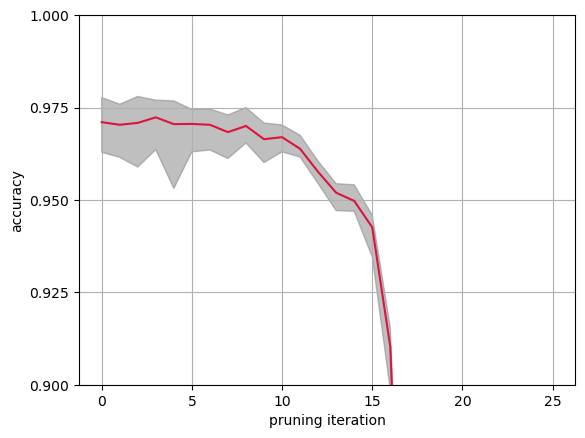
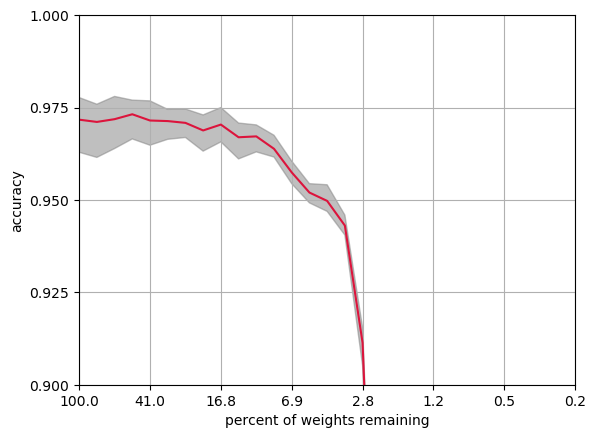
Upd: Final correction of result visualization (hopefully...)

diff --git a/PyCharm/main.py b/PyCharm/main.py
@@ -127,18 +127,24 @@ def main():
 
     if visualize:
         # Values to be set manually
-        no_masking_iteration_provided = 25
+        no_masking_iteration_provided = 10
         # no_masking_iteration_provided = no_pruning_iterations
         measure_key = 'accuracy'
         # The convergence of the full network happens until:
         # epoch 10 (Reproduction-MNIST-Lenet-FCN)
         # epoch 5 (Reproduction-CIFAR10-CNN-6)
         # epoch 3 (Transfer-20Newsgroups-End2EndCNN)
-        no_epochs_to_estimated_convergence = 10
+        no_epochs_to_estimated_convergence = 3
+        # The effective amount of weights remaining per iteration
+        # 0.8 (Reproduction-MNIST-Lenet-FCN)
+        # 0.8253 (Reproduction-MNIST-Lenet-FCN)
+        # 0.80005 (Transfer-20Newsgroups-End2EndCNN)
+        compound_remaining_size = 0.80005
         # Limits of the axis for the experiment:
         # y_limits = (0.6, 0.85)
+        # y_limits = (0.6, 0.8)
         y_limits = (0.9, 1.0)
-        # x_limits = (0, 18)
+        x_limits = (0, no_masking_iteration_provided)
 
         # no_experiments_provided = 3
         average_over_multiple_experiments = False
@@ -236,24 +242,24 @@ def main():
 
                 vis_results = []
                 vis_names = []
-                vis_results.append(pruning_results[6])
-                vis_names.append(pruning_names[6])
-                vis_results.append(pruning_results[7])
-                vis_names.append(pruning_names[7])
-                vis_results.append(pruning_results[8])
-                vis_names.append(pruning_names[8])
-                vis_results.append(pruning_results[9])
-                vis_names.append(pruning_names[9])
-                vis_results.append(pruning_results[10])
-                vis_names.append(pruning_names[10])
-                # vis_results.append(pruning_results[5])
-                # vis_names.append(pruning_names[5])
+                vis_results.append(pruning_results[0])
+                vis_names.append(pruning_names[0])
+                vis_results.append(pruning_results[1])
+                vis_names.append(pruning_names[1])
+                vis_results.append(pruning_results[2])
+                vis_names.append(pruning_names[2])
+                vis_results.append(pruning_results[3])
+                vis_names.append(pruning_names[3])
+                vis_results.append(pruning_results[4])
+                vis_names.append(pruning_names[4])
+                vis_results.append(pruning_results[5])
+                vis_names.append(pruning_names[5])
                 vis_results.append(pruning_results[-1])
                 vis_names.append(pruning_names[-1])
 
                 # colors = ["royalblue", "green", "peru", "crimson"]
-                # colors = ["mediumpurple", "saddlebrown", "gold", "crimson"]
-                colors = ["royalblue", "green", "peru", "mediumpurple", "saddlebrown", "crimson"]
+                # colors = ["mediumpurple", "saddlebrown", "crimson"]
+                colors = ["royalblue", "green", "peru", "mediumpurple", "saddlebrown", "gold", "crimson"]
                 #"""
                 visualization.plot_converged_measure_over_different_pruning_depths(
                     vis_results,
@@ -311,7 +317,6 @@ def main():
                     history_names=vis_names,
                     measure_key=measure_key,
                     y_limits=y_limits,
-                    x_limits=x_limits,
                     colors=colors
                 )
                 """
@@ -323,15 +328,17 @@ def main():
                     y_limits=y_limits
                 )
                 """
-                """
+                #"""
                 visualization.plot_average_measure_after_convergence(
                     experiment_result=network_history_dicts,
                     history_names=network_names,
                     measure_key=measure_key,
                     head_length_to_truncate=no_epochs_to_estimated_convergence,
-                    y_limits=y_limits
+                    y_limits=y_limits,
+                    x_limits=x_limits,
+                    remaining_ratio=compound_remaining_size
                 )
-                """
+                #"""
 
     return
 

diff --git a/PyCharm/visualization.py b/PyCharm/visualization.py
@@ -15,7 +15,7 @@ def plot_measure_over_n_trainings(histories, history_names, measure_key,
     color = iter(plt.cm.rainbow(np.linspace(0, 1, len(histories))))
     x_ticks = []
     for i in epoch_count:
-        if (i % 5) == 0:
+        if (i % 1) == 0:
             x_ticks.append(i)
     for idx, history in enumerate(histories):
         if colors:
@@ -201,7 +201,8 @@ def _calculate_point_wise_average_over_experiments(experiment_results, measure_k
 
 
 def plot_average_measure_after_convergence(experiment_result, history_names, measure_key,
-                                           head_length_to_truncate, y_limits=None,
+                                           head_length_to_truncate, y_limits=None, x_limits=None,
+                                           remaining_ratio=None,
                                            variable_name='pruning iteration'):
     means = []
     lower_bounds = []
@@ -219,7 +220,7 @@ def plot_average_measure_after_convergence(experiment_result, history_names, mea
         mean=means,
         lb=lower_bounds,
         ub=upper_bounds,
-        color_mean='crimson',
+        color_mean='purple',
         color_shading='grey'
     )
 
@@ -241,18 +242,23 @@ def plot_average_measure_after_convergence(experiment_result, history_names, mea
                bbox_to_anchor=(1.2, 1.0))
     '''
 
-    x_ticks = []
-    for i in range(len(means)):
-        if (i % 5) == 0:
-            x_ticks.append(i)
-    plt.xticks(x_ticks)
+
+    if x_limits:
+        x_ticks = np.linspace(x_limits[0], x_limits[1], num=(x_limits[1] - x_limits[0] + 1))
+        x_percentages = np.round(np.power(np.ones(shape=np.shape(x_ticks))*remaining_ratio, x_ticks)*100, 1)
+        plt.xticks(ticks=x_ticks, labels=x_percentages)
+        plt.xlim(x_limits)
+
     if y_limits:
         y_ticks = np.arange(y_limits[0], y_limits[1], 0.025)
         y_ticks = np.append(y_ticks, y_limits[1])
         plt.yticks(y_ticks)
         plt.ylim(y_limits)
     plt.grid(True)
-    plt.xlabel(variable_name)
+    if remaining_ratio:
+        plt.xlabel("percent of weights remaining")
+    else:
+        plt.xlabel(variable_name)
     plt.ylabel(measure_key)
     plt.savefig("../LaTeX/gfx/Experiments/test.png",
                 bbox_inches='tight')
